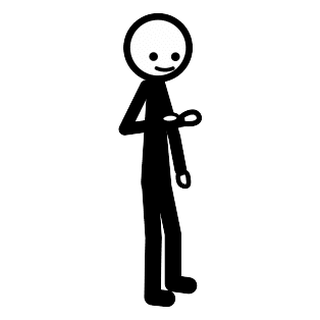
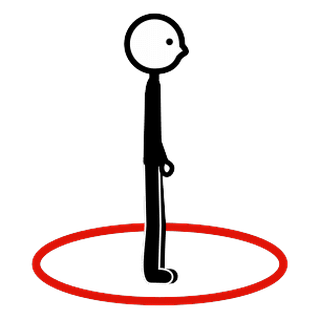
"Fique onde está": pictograma de pessoa parada num lugar marcado
Claude-Session: https://claude.ai/code/session_01UvW37g1qt7uYdtfvh9e4Hi

Changed region(s): [[0.0938, 0.0312, 0.9062, 0.9688]]

diff --git a/sw.js b/sw.js
@@ -7,7 +7,7 @@
    Só é preciso mexer aqui se você ADICIONAR ou RENOMEAR arquivos:
    atualize a lista ARQUIVOS e aumente o número em VERSAO. */
 
-const VERSAO = "auhug-v10";
+const VERSAO = "auhug-v11";
 const ARQUIVOS = [
   "./",
   "index.html",
